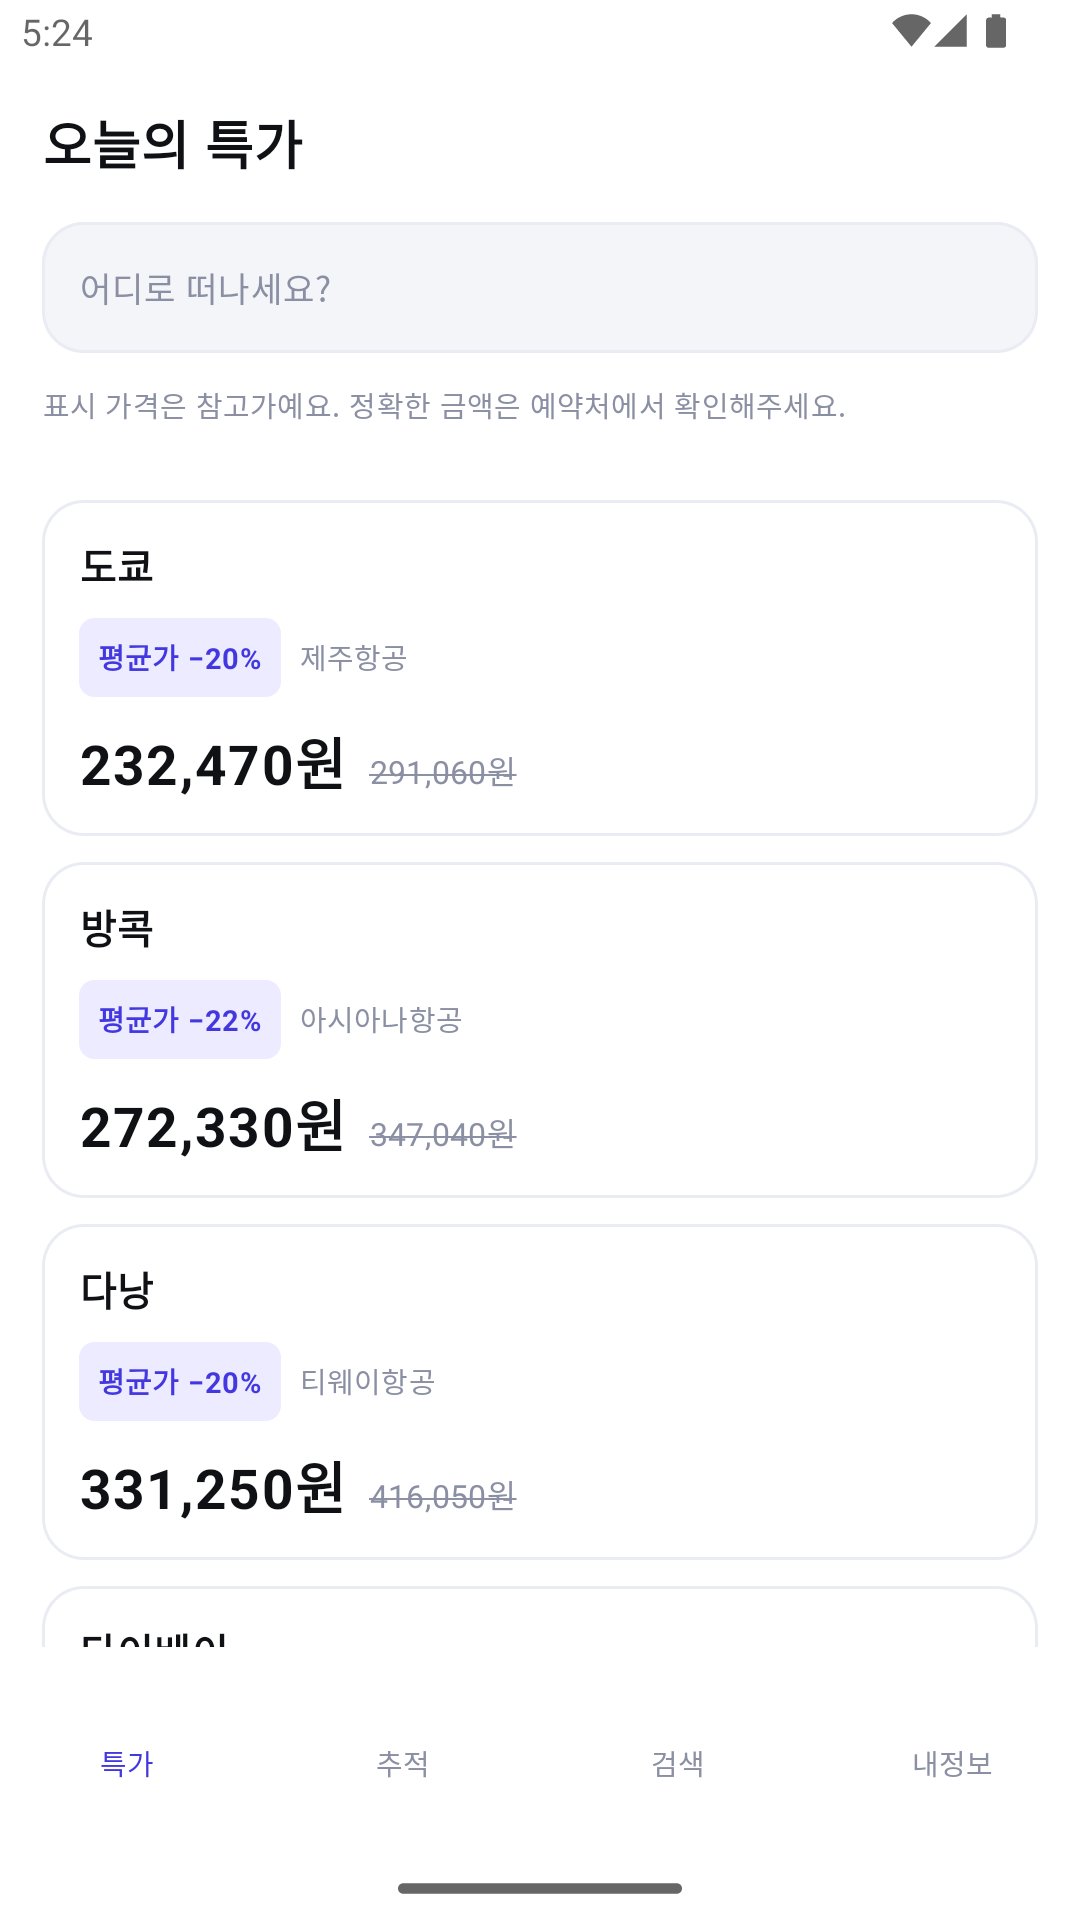
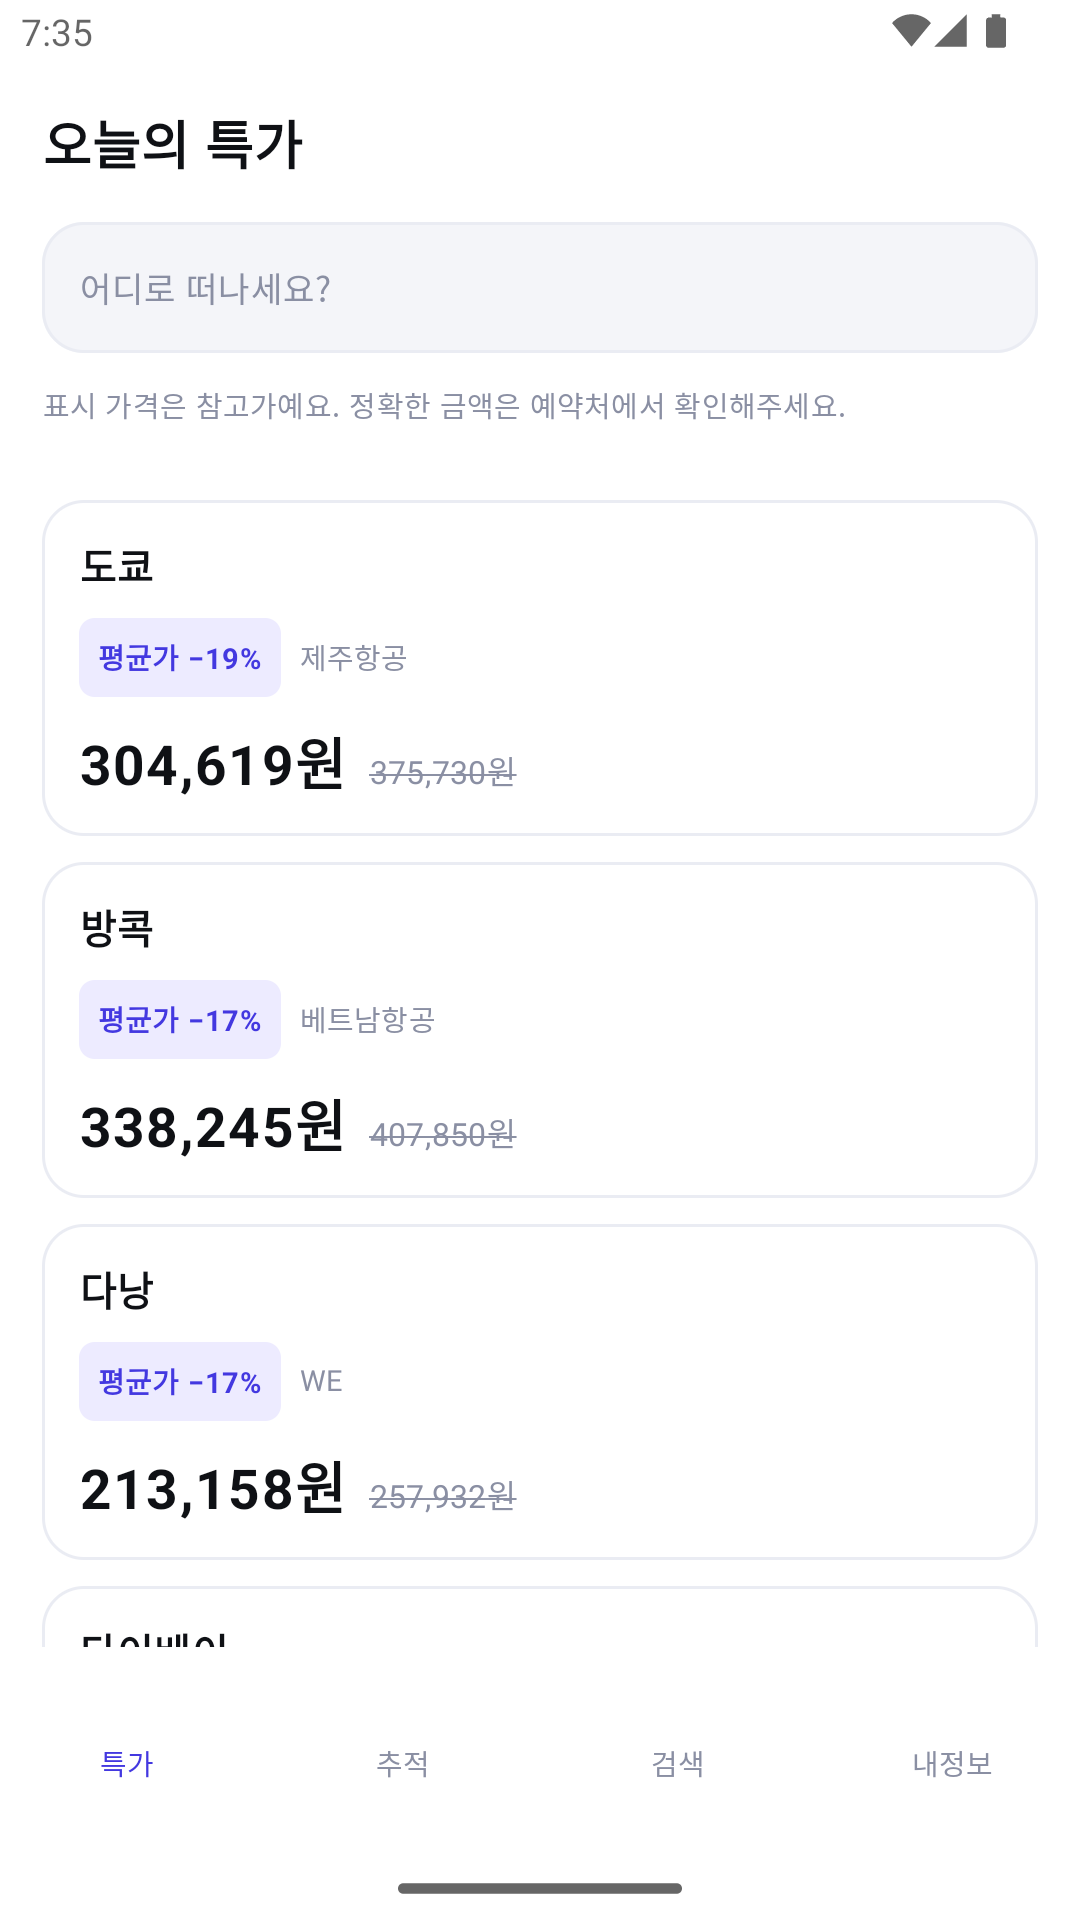
docs: README를 실데이터 기준으로 갱신

diff --git a/README.md b/README.md
@@ -3,10 +3,13 @@
 인천 출발 항공권의 특가를 모아 보여주고, 지정한 노선의 가격 변동을 감지해 알림을 주는 안드로이드 앱.
 
 <p align="left">
-  <img src="docs/images/feed.png" width="240" alt="특가 피드" />
-  <img src="docs/images/empty.png" width="240" alt="빈 데이터 상태" />
-  <img src="docs/images/error.png" width="240" alt="오류 상태" />
+  <img src="docs/images/feed.png" width="230" alt="왕복 특가 피드" />
+  <img src="docs/images/oneway.png" width="230" alt="편도 전환" />
+  <img src="docs/images/empty.png" width="230" alt="빈 데이터 상태" />
+  <img src="docs/images/error.png" width="230" alt="오류 상태" />
 </p>
+
+실제 Travelpayouts 데이터다. 왕복 도쿄 304,619원(−19%), 편도로 바꾸면 100,097원(−31%).
 
 ## "실시간 요금 변동"에 대해
 
@@ -43,19 +46,31 @@ Java 소스는 한 줄도 없다. compileSdk/targetSdk 36, minSdk 26.
 
 ## 현재 상태
 
-기반 구축 완료. 테스트 51건 통과 (`:domain` 31 · `:data` 10 · `:presentation` 10).
+Travelpayouts 실연동 완료. 테스트 95건 통과 (`:domain` 33 · `:data` 49 · `:presentation` 13).
 
-특가 피드 화면이 로딩·성공·빈 데이터·오류 네 상태를 모두 처리한다. 지금은 인메모리 Fake
-구현체가 데이터를 공급하며, 실제 API 연동은 `:data`의 `FlightPriceRepository` 구현체를
-하나 추가하는 것으로 끝난다 — 화면과 도메인은 손대지 않는다.
+인천 출발 6개 노선의 실제 최저가를 보여주고, 왕복/편도를 전환할 수 있다.
+할인 배지는 그 노선·그 달의 가격 분포 중앙값과 비교해 계산한다 —
+**딜과 같은 종류의 운임끼리만 비교한다.** 왕복 가격을 편도 분포와 견주면 할인이
+성립하지 않아 배지가 영영 뜨지 않는데, 개발 중에 실제로 겪고 고친 문제다.
+
+데이터 소스를 바꾸는 데 필요한 변경은 `:data`의 `RepositoryModule` 한 파일이다.
+XML 뷰를 Compose로 갈아엎을 때도, Fake를 실 API로 바꿀 때도 `:domain`은 한 줄도 바뀌지 않았다.
 
 **빈 데이터는 오류가 아니다.** 데이터 소스가 캐시 기반이라 한산한 노선은 정상적으로 빈 응답을
 준다. 그래서 빈 상태에는 재시도 버튼을 숨기는 게 아니라 아예 만들지 않는다. 눌러도 결과가
-같기 때문이다.
+같기 때문이다. 반대로 레이트 리밋과 서버 오류에는 재시도 버튼을 준다 — 잠시 뒤면 풀리니까.
+
+### 알아둘 것
+
+Aviasales는 러시아에서 출발한 서비스라 예약처의 절반가량이 한국에서 결제할 수 없는
+CIS 마켓플레이스다. 그래서 목적지마다 **한국에서 예약 가능한 예약처를 우선**해 고르고,
+그런 곳이 없으면 그 노선의 최저가라도 보여준다. 완전히 걸러내면 한산한 노선의 화면이 빈다.
+
+표시 가격은 참고가다. 소스가 실사용자 검색 기록 기반 7일 캐시라 그 순간 실제 예약 가능한
+운임과 다를 수 있고, 화면에도 그렇게 적어두었다.
 
 ### 다음
 
-- Travelpayouts 실연동 (한국 노선 데이터 밀도 검증부터)
 - Room 가격 이력 + 추적 화면 + 추이 그래프
 - `PriceCheckWorker` + 알림
 - 날짜별 최저가 캘린더, 목적지 탐색, 예약처 딥링크
